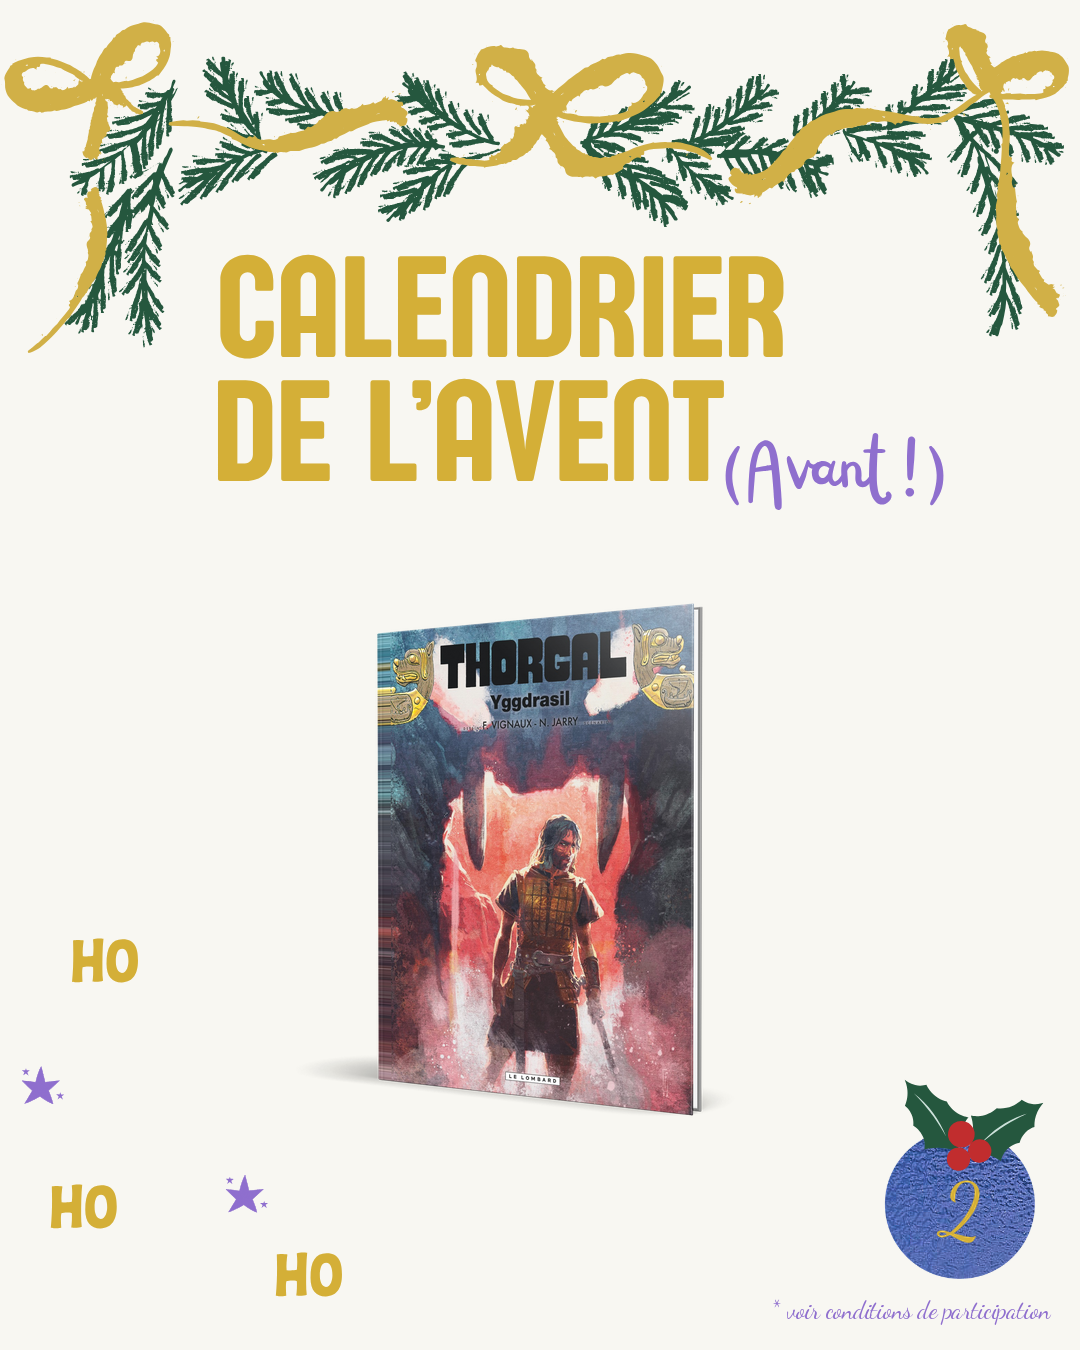
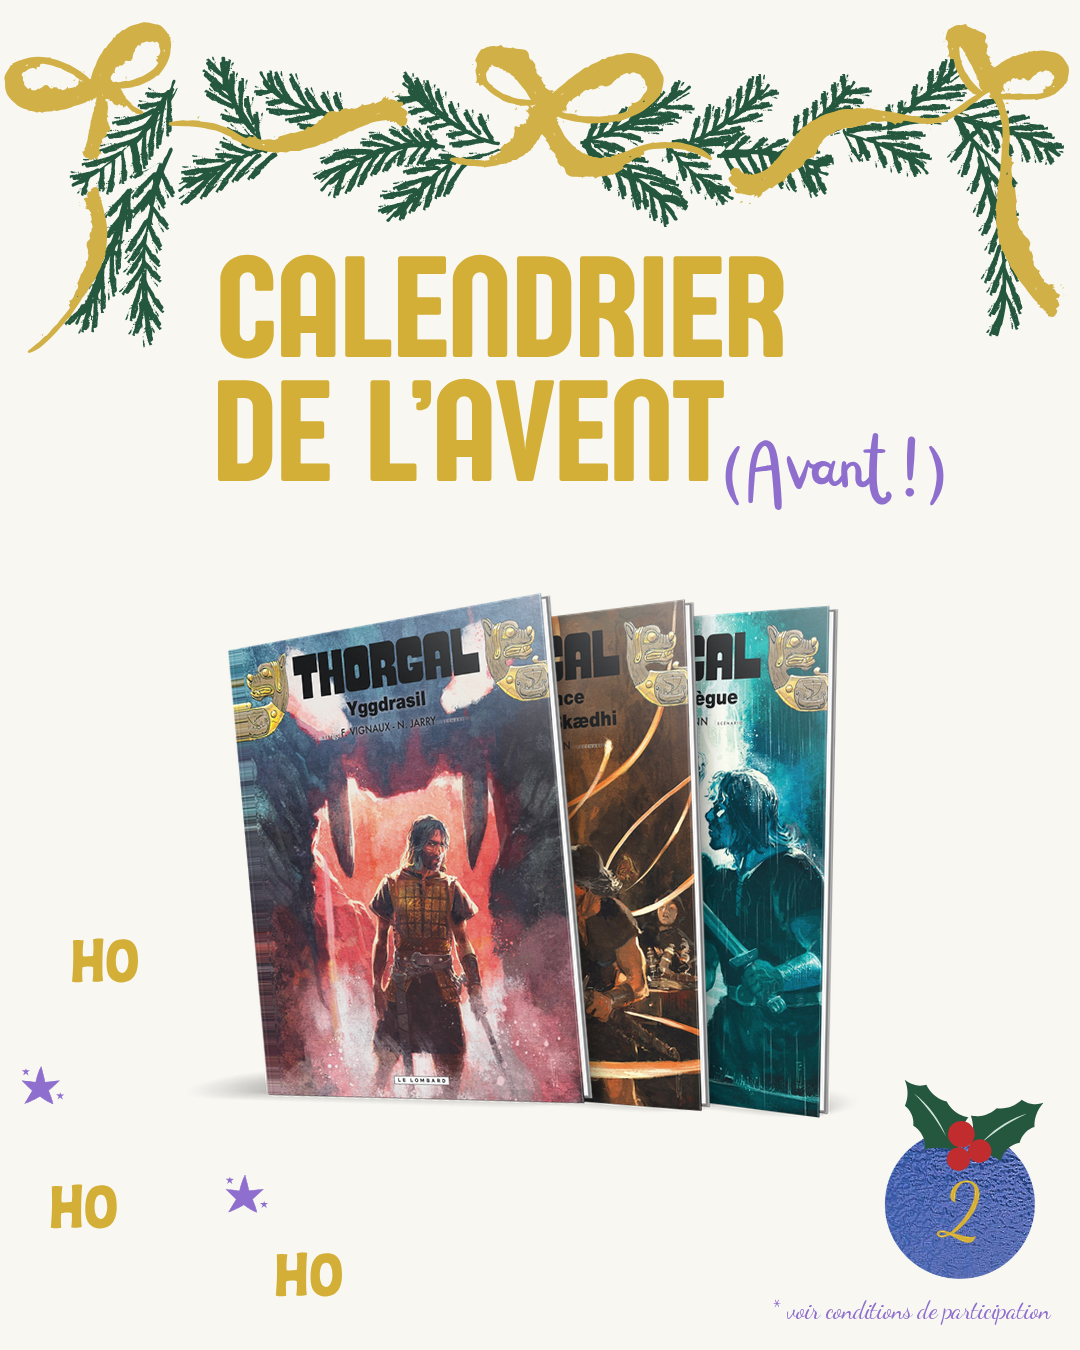
Calendrier Avant : lots par série en éventail (-5° puis +3° par album) – Thorgal 42-44, Elles 1-4, Schtroumpfs 42-44
Claude-Session: https://claude.ai/code/session_01QaZk7QZvzTVY1x8op41wve

Changed region(s): [[0.2139, 0.4356, 0.7944, 0.84]]

diff --git a/calendrier-avent-2026/planning.py b/calendrier-avent-2026/planning.py
@@ -1,4 +1,4 @@
-"""Génère jours/jourNN.json pour les 24 jours puis les visuels : python3 planning.py
+"""Génère jours/jourNN.json pour les 24 jours puis les visuels : python3 planning.py [n° de jours…]
 
 Planning = onglet « Planning » de Calendrier_Avent_AVANT_2026.xlsx (ligne du 1/11 = jour 1 = 7/11),
 avec la ligne 9 (Gallmeister) = Betty + Le Gang de la clef à molette.
@@ -6,11 +6,14 @@ avec la ligne 9 (Gallmeister) = Betty + Le Gang de la clef à molette.
 import json, os, glob, subprocess, sys
 HERE = os.path.dirname(os.path.abspath(__file__))
 
-PLANNING = [  # jour : ISBN des albums, de gauche à droite
+# jour : ISBN des albums, de gauche (devant) à droite (derrière).
+# {'serie': [...]} = même série : albums en éventail l'un derrière l'autre, le plus récent devant,
+#                   angles -5°, -2°, +1°, +4°…
+PLANNING = [
     ['9782808217989', '9782808217972'],   # 1  BD de l'Avent polar + jeunesse 2026
-    ['9782808218535'],                    # 2  Thorgal 44 – Yggdrasil
-    ['9782808218504'],                    # 3  Elles 4 – Intemporelle(s)
-    ['9782808217958'],                    # 4  Le Schtroumpf qui plantait de la salsepareille
+    {'serie': ['9782808218535', '9782808214865', '9782808212939']},                  # 2  Thorgal 44, 43, 42
+    {'serie': ['9782808218504', '9782808206181', '9782808200004', '9782803678242']}, # 3  Elles 4, 3, 2, 1
+    {'serie': ['9782808217958', '9782808214957', '9782808213097']},                  # 4  Schtroumpfs 44, 43, 42
     ['9782808216326'],                    # 5  Après Arthur 1 – Le trône et l'épée
     ['9782808217804'],                    # 6  Chroniques de fer et d'écailles 1 – Le vol des gobelins
     ['9782808215367'],                    # 7  Edgar et les guimauves 1
@@ -42,14 +45,25 @@ def cover(isbn):
     return '../assets/couvertures/' + os.path.basename(f[0])
 
 
-for n, isbns in enumerate(PLANNING, 1):
+SERIE_OVERLAP = 0.6    # chaque album de la série décalé de 40 % de largeur
+ONLY = [int(a) for a in sys.argv[1:]]
+for n, entry in enumerate(PLANNING, 1):
+    if ONLY and n not in ONLY: continue
+    serie = isinstance(entry, dict)
+    isbns = entry['serie'] if serie else entry
     books = [{'img': cover(i)} for i in isbns]
-    if len(books) == 2:                     # réglages validés au jour 1
+    overlap = 0.1
+    if serie:
+        for k, b in enumerate(books):
+            b['angle'] = -5 + 3 * k
+        overlap = SERIE_OVERLAP
+    elif len(books) == 2:                   # réglages validés au jour 1
         books[0]['angle'] = -3
         books[1].update(angle=3, scale=1.02)
+    cx = 525 if len(books) >= 4 else 540   # 4 albums : léger décalage pour dégager le houx
     cfg = {
         'theme': THEMES[(n - 1) % 3],
-        'layout': {'y': 600, 'h': 520, 'overlap': 0.1, 'cx': 540},
+        'layout': {'y': 600, 'h': 520, 'overlap': overlap, 'cx': cx},
         'books': books,
         'date': {'text': str(n), 'font': FONT, 'angle': 5, 'cx': 959, 'cy': 1201, 'diam': 147, 'fill': 0.9},
         'mention': {'text': '* voir conditions de participation', 'font': FONT, 'size': 24, 'x': 1050, 'y': 1318},

diff --git a/calendrier-avent-2026/README.md b/calendrier-avent-2026/README.md
@@ -23,9 +23,13 @@ Fonds en alternance rouge → jaune → bleu (jour 1 rouge, 2 jaune, 3 bleu…),
 
 Les 24 jours (fichiers JSON + visuels) sont générés par `planning.py` à partir du planning qui y est recopié :
 
-    python3 planning.py
+    python3 planning.py          # les 24 jours
+    python3 planning.py 2 3 4    # seulement certains jours
 
-Deux albums : -3° / +3°, celui de droite à 102 % et derrière, chevauchement 10 %, ombre portée. Un album : droit, centré.
+Même série (`{'serie': [...]}` dans `planning.py`) : albums en éventail l'un derrière l'autre, le plus récent devant à gauche,
+angles -5°, -2°, +1°, +4°… (+3° par album), chaque album décalé de 40 % de largeur.
+
+Deux albums (séries différentes) : -3° / +3°, celui de droite à 102 % et derrière, chevauchement 10 %, ombre portée. Un album : droit, centré.
 
 Rendu d'un seul jour en 1080×1350 (format portrait Instagram) :
 
